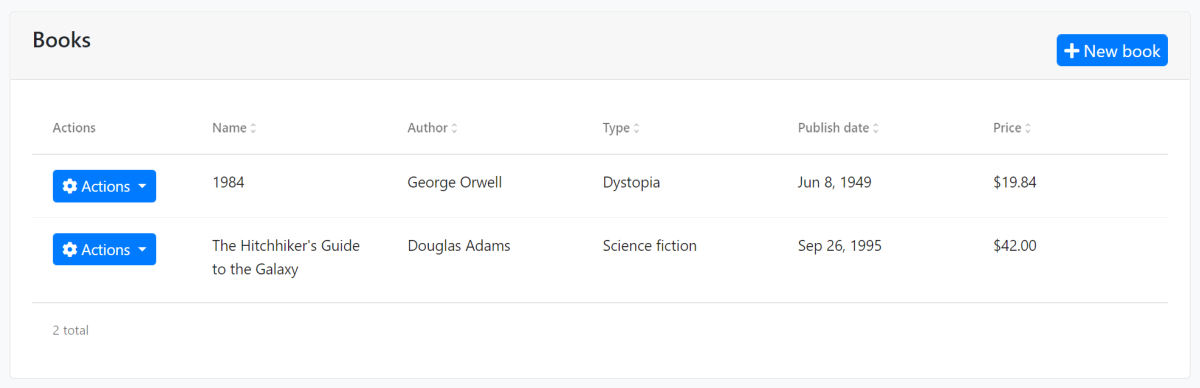
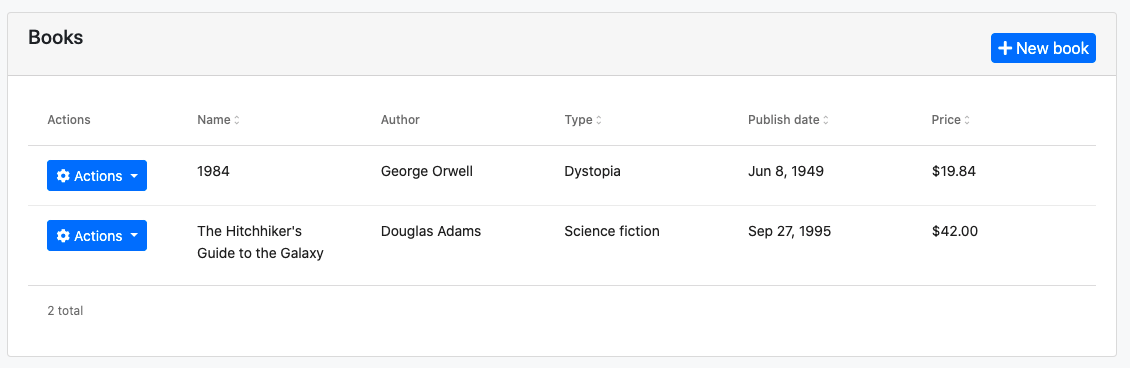
fix: sortable author column to non-sortable

diff --git a/docs/en/Tutorials/Part-10.md b/docs/en/Tutorials/Part-10.md
@@ -949,10 +949,11 @@ This command will update the service proxy files under the `/src/app/proxy/` fol
 
 Book list page change is trivial. Open the `/src/app/book/book.component.html` and add the following column definition between the `Name` and `Type` columns:
 
-````js
+````html
 <ngx-datatable-column
   [name]="'::Author' | abpLocalization"
   prop="authorName"
+  [sortable]="false"
 ></ngx-datatable-column>
 ````
 
